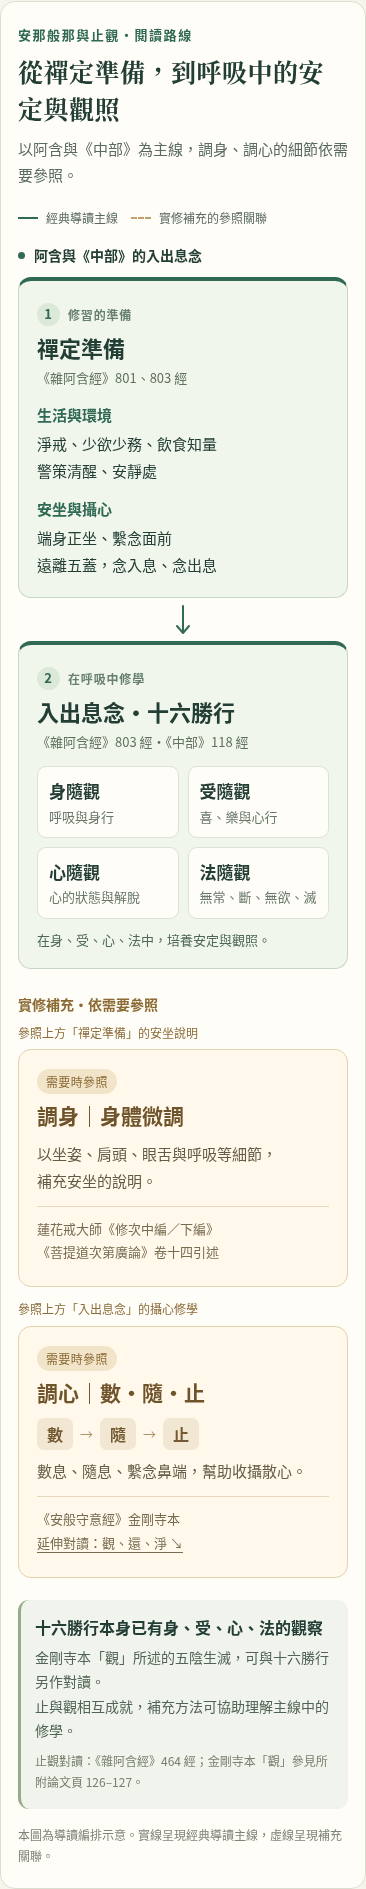
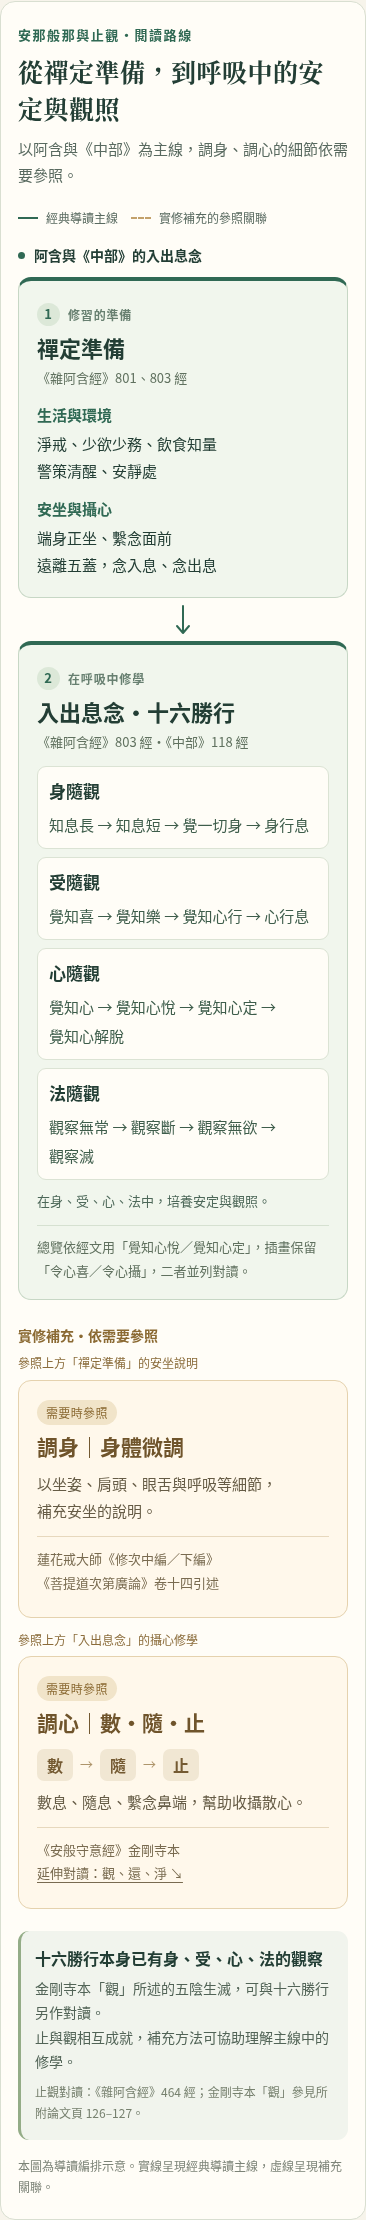
docs: integrate all sixteen practices into Anapana flow preview

diff --git a/docs/previews/anapana-study-flow/preview.html b/docs/previews/anapana-study-flow/preview.html
@@ -7,9 +7,9 @@
 <title>安那般那導讀流程｜SutraZen 試排</title>
 <style>
 :root{--paper:#f7f4eb;--ink:#233e35;--muted:#596a60;--green:#306954;--border:#d9dfd1;--gold:#a27835;--gold-line:#c3a16b;--white:#fffdf7}
-*{box-sizing:border-box}body{margin:0;background:var(--paper);color:var(--ink);font-family:"Noto Sans TC","PingFang TC","Microsoft JhengHei",sans-serif;line-height:1.75}a{color:inherit;text-underline-offset:4px}a:focus-visible{outline:3px solid #a27835;outline-offset:5px}header{max-width:1160px;margin:auto;padding:23px 30px 17px;display:flex;justify-content:space-between;gap:12px;align-items:center;border-bottom:1px solid #dce1d4}.brand{font-family:Georgia,"Songti TC",serif;font-size:25px;font-weight:700}.preview-badge{font-size:13px;color:#816636;background:#f3ead6;padding:4px 12px;border-radius:20px}main{width:min(100% - 48px,1100px);margin:22px auto 55px}#flow-preview{padding:30px 32px 24px;background:var(--white);border:1px solid var(--border);border-radius:20px}.eyebrow{margin:0 0 7px;color:var(--green);font-size:13px;letter-spacing:.12em;font-weight:750}h1{margin:0;font-family:"Noto Serif TC","Songti TC",serif;font-size:clamp(25px,3vw,35px);line-height:1.45;letter-spacing:.02em}.lead{color:var(--muted);margin:10px 0 19px;font-size:16px}.legend{display:flex;flex-wrap:wrap;gap:8px 23px;font-size:13px;color:var(--muted);padding-bottom:20px}.legend span{display:inline-flex;align-items:center;gap:8px}.sample{display:inline-block;width:28px;height:0;border-top:2px solid var(--green)}.sample.dotted{border-color:var(--gold-line);border-top-style:dashed}.lane-caption{margin:0 0 9px;display:flex;align-items:center;gap:9px;font-size:14px;font-weight:700}.lane-caption:before{content:"";width:7px;height:7px;background:var(--green);border-radius:100%}.flows{display:grid;grid-template-columns:1fr 46px 1.14fr;grid-template-rows:350px 51px auto;align-items:start}.prep-card{grid-area:1/1}.main-link{grid-area:1/2}.tetrad-card{grid-area:1/3}.body-link{grid-area:2/1}.mind-link{grid-area:2/3}.body-card{grid-area:3/1}.mind-card{grid-area:3/3}.main-card{height:100%;border:1px solid #c7d7c5;border-top:4px solid var(--green);background:#f1f6ed;border-radius:13px;padding:19px 21px;position:relative}.main-card h2{margin:0 0 2px;font-size:22px;line-height:1.6}.step{display:inline-flex;align-items:center;gap:8px;font-size:12px;letter-spacing:.07em;color:#688071;font-weight:700;margin-bottom:4px}.step b{display:grid;place-items:center;width:23px;height:23px;border-radius:50%;background:#dce8d8;color:var(--green);font-size:13px}.source{font-size:13px;color:#60715f;margin:0 0 13px}.prep-block{margin-top:12px}.prep-block strong{display:block;font-size:15px;color:var(--green)}.prep-block p{margin:2px 0;font-size:15px;line-height:1.8}.main-link{height:350px;display:flex;align-items:center;justify-content:center;color:var(--green)}.main-link svg{width:34px;height:22px;overflow:visible}.tetrads{display:grid;grid-template-columns:1fr 1fr;gap:9px;margin-top:12px}.tetrad{background:#fffdf7;border:1px solid #dbe3d4;border-radius:9px;padding:8px 11px}.tetrad strong{display:block;font-size:17px}.tetrad small{display:block;font-size:13px;color:#67776b;line-height:1.7}.within{font-size:13px;margin:10px 0 0;color:#4d6859}.support-link{display:flex;align-items:center;justify-content:center;gap:10px;color:#8b6c3b;font-size:13px}.support-link svg{width:20px;height:49px;flex:0 0 20px}.support-link .mobile-label{display:none}.support-card{background:#fff8eb;border:1px solid #e5d2ae;border-radius:13px;padding:17px 20px;min-height:270px}.support-card h3{margin:5px 0;font-size:21px;line-height:1.6;color:#6f542b}.optional{display:inline-block;font-size:12px;letter-spacing:.03em;color:#8b6a33;background:#f1e4c9;border-radius:20px;padding:2px 9px}.support-card p{margin:7px 0;font-size:15px;line-height:1.8;color:#665c46}.support-source{margin-top:12px!important;border-top:1px solid #e7d8bd;padding-top:10px;font-size:13px!important;color:#796b50!important;line-height:1.8!important}.steps{display:flex;gap:7px;align-items:center;margin:9px 0 6px}.steps b{border-radius:7px;background:#f1e7d3;color:#745a32;font-size:16px;min-width:44px;text-align:center;padding:2px 12px}.steps span{color:#ae956b;font-size:13px}.extension{font-size:13px!important;margin-top:7px!important}.mobile-support-heading{display:none}.observation{margin-top:22px;background:#f1f4ed;border-radius:11px;padding:14px 18px;border-left:3px solid #94ac87}.observation strong{display:block;font-size:16px}.observation p{font-size:14px;margin:4px 0;color:#526457}.observation .citation{font-size:12px;margin-top:7px;color:#77816f}.footnote{font-size:12px;color:#7c8377;margin:15px 0 0}.existing-table{margin-top:30px;padding:23px 28px;border:1px solid #d9dfd1;background:var(--white);border-radius:15px}.existing-table h2{margin:0 0 14px;font-size:24px}.existing-table .muted{font-size:14px;color:var(--muted)}table{border-collapse:collapse;width:100%;font-size:15px}td,th{padding:12px 14px;text-align:left;border:1px solid #d9dfd1}thead{background:#eef2e8}tbody th{white-space:nowrap;font-weight:700}.table-wrap{overflow:auto}.review-note{margin:18px 0 0;font-size:13px;color:#6f786b}.review-note a{display:inline-block;margin-right:16px}
-@media(max-width:800px){main{width:min(100% - 28px,710px)}#flow-preview{padding:25px 23px}.flows{grid-template-columns:1fr 35px 1fr;grid-template-rows:365px 51px auto}.main-card{padding:16px}.main-card h2{font-size:20px}.source{font-size:12px}.main-link{height:365px}.support-card{padding:15px;min-height:285px}.support-card h3{font-size:19px}.tetrad{padding:8px}.tetrad small{font-size:12px}.prep-block p{font-size:14px}.steps b{min-width:36px;padding-inline:9px}}
-@media(max-width:600px){header{padding:15px 18px}.brand{font-size:22px}.preview-badge{font-size:11px;padding:3px 9px}main{width:calc(100% - 24px);margin-top:16px}#flow-preview{padding:22px 17px;border-radius:15px}.lead{font-size:15px}.legend{font-size:12px;gap:7px 13px;padding-bottom:15px}.sample{width:20px}.flows{grid-template-columns:1fr;grid-template-rows:auto}.flows>*{grid-area:auto}.main-card{padding:17px 18px}.main-card h2{font-size:22px}.prep-card{grid-row:1}.main-link{grid-row:2;height:43px}.main-link svg{transform:rotate(90deg)}.tetrad-card{grid-row:3}.prep-block p{font-size:15px}.source{font-size:13px;margin-bottom:11px}.tetrad{padding:9px 11px}.tetrad small{font-size:13px}.mobile-support-heading{display:block;grid-row:4;margin:23px 0 6px;color:#8b6a33;font-size:14px;font-weight:700}.body-link{grid-row:5}.body-card{grid-row:6}.mind-link{grid-row:7;margin-top:12px}.mind-card{grid-row:8}.support-link{justify-content:flex-start;font-size:12px;line-height:1.6;padding:0 0 7px;height:auto}.support-link svg,.support-link .desktop-label{display:none}.support-link .mobile-label{display:block}.support-card{min-height:0;padding:16px 18px}.support-card h3{font-size:21px}.support-source{font-size:13px!important}.observation{padding:13px 14px;margin-top:22px}.observation p{font-size:14px}.observation .citation{font-size:12px}.footnote{font-size:12px}.existing-table{padding:20px 16px}.existing-table h2{font-size:23px}table{font-size:14px}td,th{padding:10px}tbody th{white-space:normal;min-width:50px}.review-note{font-size:12px}}
+*{box-sizing:border-box}body{margin:0;background:var(--paper);color:var(--ink);font-family:"Noto Sans TC","PingFang TC","Microsoft JhengHei",sans-serif;line-height:1.75}a{color:inherit;text-underline-offset:4px}a:focus-visible{outline:3px solid #a27835;outline-offset:5px}header{max-width:1160px;margin:auto;padding:23px 30px 17px;display:flex;justify-content:space-between;gap:12px;align-items:center;border-bottom:1px solid #dce1d4}.brand{font-family:Georgia,"Songti TC",serif;font-size:25px;font-weight:700}.preview-badge{font-size:13px;color:#816636;background:#f3ead6;padding:4px 12px;border-radius:20px}main{width:min(100% - 48px,1100px);margin:22px auto 55px}#flow-preview{padding:30px 32px 24px;background:var(--white);border:1px solid var(--border);border-radius:20px}.eyebrow{margin:0 0 7px;color:var(--green);font-size:13px;letter-spacing:.12em;font-weight:750}h1{margin:0;font-family:"Noto Serif TC","Songti TC",serif;font-size:clamp(25px,3vw,35px);line-height:1.45;letter-spacing:.02em}.lead{color:var(--muted);margin:10px 0 19px;font-size:16px}.legend{display:flex;flex-wrap:wrap;gap:8px 23px;font-size:13px;color:var(--muted);padding-bottom:20px}.legend span{display:inline-flex;align-items:center;gap:8px}.sample{display:inline-block;width:28px;height:0;border-top:2px solid var(--green)}.sample.dotted{border-color:var(--gold-line);border-top-style:dashed}.lane-caption{margin:0 0 9px;display:flex;align-items:center;gap:9px;font-size:14px;font-weight:700}.lane-caption:before{content:"";width:7px;height:7px;background:var(--green);border-radius:100%}.flows{display:grid;grid-template-columns:1fr 46px 1.14fr;grid-template-rows:auto 51px auto;align-items:start}.prep-card{grid-area:1/1}.main-link{grid-area:1/2}.tetrad-card{grid-area:1/3}.body-link{grid-area:2/1}.mind-link{grid-area:2/3}.body-card{grid-area:3/1}.mind-card{grid-area:3/3}.main-card{min-height:350px;height:100%;border:1px solid #c7d7c5;border-top:4px solid var(--green);background:#f1f6ed;border-radius:13px;padding:19px 21px;position:relative}.main-card h2{margin:0 0 2px;font-size:22px;line-height:1.6}.step{display:inline-flex;align-items:center;gap:8px;font-size:12px;letter-spacing:.07em;color:#688071;font-weight:700;margin-bottom:4px}.step b{display:grid;place-items:center;width:23px;height:23px;border-radius:50%;background:#dce8d8;color:var(--green);font-size:13px}.source{font-size:13px;color:#60715f;margin:0 0 13px}.prep-block{margin-top:12px}.prep-block strong{display:block;font-size:15px;color:var(--green)}.prep-block p{margin:2px 0;font-size:15px;line-height:1.8}.main-link{height:100%;display:flex;align-items:center;justify-content:center;color:var(--green)}.main-link svg{width:34px;height:22px;overflow:visible}.tetrads{display:grid;grid-template-columns:1fr;gap:8px;margin-top:12px}.tetrad{display:grid;grid-template-columns:62px 1fr;gap:10px;align-items:start;background:#fffdf7;border:1px solid #dbe3d4;border-radius:9px;padding:8px 11px}.tetrad h3{margin:0;font-size:17px;line-height:1.75}.practice-chain{margin:0;font-size:15px;line-height:1.95;color:#3e5d4b}.practice-term{white-space:nowrap}.translation-note{font-size:13px;line-height:1.8;color:#60715f;margin:12px 0 0;padding-top:9px;border-top:1px solid #d6e1d1}.within{font-size:13px;margin:10px 0 0;color:#4d6859}.support-link{display:flex;align-items:center;justify-content:center;gap:10px;color:#8b6c3b;font-size:13px}.support-link svg{width:20px;height:49px;flex:0 0 20px}.support-link .mobile-label{display:none}.support-card{background:#fff8eb;border:1px solid #e5d2ae;border-radius:13px;padding:17px 20px;min-height:270px}.support-card h3{margin:5px 0;font-size:21px;line-height:1.6;color:#6f542b}.optional{display:inline-block;font-size:12px;letter-spacing:.03em;color:#8b6a33;background:#f1e4c9;border-radius:20px;padding:2px 9px}.support-card p{margin:7px 0;font-size:15px;line-height:1.8;color:#665c46}.support-source{margin-top:12px!important;border-top:1px solid #e7d8bd;padding-top:10px;font-size:13px!important;color:#796b50!important;line-height:1.8!important}.steps{display:flex;gap:7px;align-items:center;margin:9px 0 6px}.steps b{border-radius:7px;background:#f1e7d3;color:#745a32;font-size:16px;min-width:44px;text-align:center;padding:2px 12px}.steps span{color:#ae956b;font-size:13px}.extension{font-size:13px!important;margin-top:7px!important}.mobile-support-heading{display:none}.observation{margin-top:22px;background:#f1f4ed;border-radius:11px;padding:14px 18px;border-left:3px solid #94ac87}.observation strong{display:block;font-size:16px}.observation p{font-size:14px;margin:4px 0;color:#526457}.observation .citation{font-size:12px;margin-top:7px;color:#77816f}.footnote{font-size:12px;color:#7c8377;margin:15px 0 0}.existing-table{margin-top:30px;padding:23px 28px;border:1px solid #d9dfd1;background:var(--white);border-radius:15px}.existing-table h2{margin:0 0 14px;font-size:24px}.existing-table .muted{font-size:14px;color:var(--muted)}table{border-collapse:collapse;width:100%;font-size:15px}td,th{padding:12px 14px;text-align:left;border:1px solid #d9dfd1}thead{background:#eef2e8}tbody th{white-space:nowrap;font-weight:700}.table-wrap{overflow:auto}.review-note{margin:18px 0 0;font-size:13px;color:#6f786b}.review-note a{display:inline-block;margin-right:16px}
+@media(max-width:800px){main{width:min(100% - 28px,710px)}#flow-preview{padding:25px 23px}.flows{grid-template-columns:1fr 35px 1fr;grid-template-rows:auto 51px auto}.main-card{padding:16px}.main-card h2{font-size:20px}.source{font-size:12px}.main-link{height:100%}.support-card{padding:15px;min-height:285px}.support-card h3{font-size:19px}.tetrad{padding:8px}.tetrad{grid-template-columns:55px 1fr;gap:8px}.practice-chain{font-size:14px}.prep-block p{font-size:14px}.steps b{min-width:36px;padding-inline:9px}}
+@media(max-width:600px){header{padding:15px 18px}.brand{font-size:22px}.preview-badge{font-size:11px;padding:3px 9px}main{width:calc(100% - 24px);margin-top:16px}#flow-preview{padding:22px 17px;border-radius:15px}.lead{font-size:15px}.legend{font-size:12px;gap:7px 13px;padding-bottom:15px}.sample{width:20px}.flows{grid-template-columns:1fr;grid-template-rows:auto}.flows>*{grid-area:auto}.main-card{min-height:0;padding:17px 18px}.main-card h2{font-size:22px}.prep-card{grid-row:1}.main-link{grid-row:2;height:43px}.main-link svg{transform:rotate(90deg)}.tetrad-card{grid-row:3}.prep-block p{font-size:15px}.source{font-size:13px;margin-bottom:11px}.tetrad{padding:9px 11px}.tetrad{grid-template-columns:1fr;gap:4px}.practice-chain{font-size:15px}.mobile-support-heading{display:block;grid-row:4;margin:23px 0 6px;color:#8b6a33;font-size:14px;font-weight:700}.body-link{grid-row:5}.body-card{grid-row:6}.mind-link{grid-row:7;margin-top:12px}.mind-card{grid-row:8}.support-link{justify-content:flex-start;font-size:12px;line-height:1.6;padding:0 0 7px;height:auto}.support-link svg,.support-link .desktop-label{display:none}.support-link .mobile-label{display:block}.support-card{min-height:0;padding:16px 18px}.support-card h3{font-size:21px}.support-source{font-size:13px!important}.observation{padding:13px 14px;margin-top:22px}.observation p{font-size:14px}.observation .citation{font-size:12px}.footnote{font-size:12px}.existing-table{padding:20px 16px}.existing-table h2{font-size:23px}table{font-size:14px}td,th{padding:10px}tbody th{white-space:normal;min-width:50px}.review-note{font-size:12px}}
 </style>
 </head>
 <body>
@@ -31,8 +31,9 @@
 <article class="main-card tetrad-card" id="sixteen">
 <div class="step"><b>2</b>在呼吸中修學</div><h2>入出息念・十六勝行</h2>
 <p class="source">《雜阿含經》803 經・《中部》118 經</p>
-<div class="tetrads"><div class="tetrad"><strong>身隨觀</strong><small>呼吸與身行</small></div><div class="tetrad"><strong>受隨觀</strong><small>喜、樂與心行</small></div><div class="tetrad"><strong>心隨觀</strong><small>心的狀態與解脫</small></div><div class="tetrad"><strong>法隨觀</strong><small>無常、斷、無欲、滅</small></div></div>
+<div class="tetrads"><section class="tetrad" aria-labelledby="tetrad-0"><h3 id="tetrad-0">身隨觀</h3><p class="practice-chain"><span class="practice-term">知息長</span> → <span class="practice-term">知息短</span> → <span class="practice-term">覺一切身</span> → <span class="practice-term">身行息</span></p></section><section class="tetrad" aria-labelledby="tetrad-1"><h3 id="tetrad-1">受隨觀</h3><p class="practice-chain"><span class="practice-term">覺知喜</span> → <span class="practice-term">覺知樂</span> → <span class="practice-term">覺知心行</span> → <span class="practice-term">心行息</span></p></section><section class="tetrad" aria-labelledby="tetrad-2"><h3 id="tetrad-2">心隨觀</h3><p class="practice-chain"><span class="practice-term">覺知心</span> → <span class="practice-term">覺知心悅</span> → <span class="practice-term">覺知心定</span> → <span class="practice-term">覺知心解脫</span></p></section><section class="tetrad" aria-labelledby="tetrad-3"><h3 id="tetrad-3">法隨觀</h3><p class="practice-chain"><span class="practice-term">觀察無常</span> → <span class="practice-term">觀察斷</span> → <span class="practice-term">觀察無欲</span> → <span class="practice-term">觀察滅</span></p></section></div>
 <p class="within">在身、受、心、法中，培養安定與觀照。</p>
+<p class="translation-note">總覽依經文用「覺知心悅／覺知心定」，插畫保留「令心喜／令心攝」，二者並列對讀。</p>
 </article>
 <p class="mobile-support-heading">實修補充・依需要參照</p>
 <div class="support-link body-link"><svg viewbox="0 0 20 49" aria-hidden="true"><path d="M10 48V6M5 11L10 5L15 11" fill="none" stroke="#b89560" stroke-width="1.6" stroke-dasharray="4 4"></path><path d="M5 10L10 4L15 10" fill="none" stroke="#b89560" stroke-width="1.6"></path></svg><span class="desktop-label">補充安坐細節</span><span class="mobile-label">參照上方「禪定準備」的安坐說明</span></div>
@@ -43,8 +44,6 @@
 <aside class="observation" id="observation-note"><strong>十六勝行本身已有身、受、心、法的觀察</strong><p>金剛寺本「觀」所述的五陰生滅，可與十六勝行另作對讀。<br>止與觀相互成就，補充方法可協助理解主線中的修學。</p><p class="citation">止觀對讀：《雜阿含經》464 經；金剛寺本「觀」參見所附論文頁 126–127。</p></aside>
 <p class="footnote">本圖為導讀編排示意。實線呈現經典導讀主線，虛線呈現補充關聯。</p>
 </section>
-<section class="existing-table"><h2>十六勝行｜身、受、心、法</h2><div class="table-wrap"><table><thead><tr><th scope="col">組別</th><th scope="col">總覽對讀</th></tr></thead><tbody><tr><th scope="row">身隨觀</th><td>知息長 → 知息短 → 覺一切身 → 身行息</td></tr><tr><th scope="row">受隨觀</th><td>覺知喜 → 覺知樂 → 覺知心行 → 心行息</td></tr><tr><th scope="row">心隨觀</th><td>覺知心 → 覺知心悅 → 覺知心定 → 覺知心解脫</td></tr><tr><th scope="row">法隨觀</th><td>觀察無常 → 觀察斷 → 觀察無欲 → 觀察滅</td></tr></tbody></table></div><p>總覽依經文用「覺知心悅／覺知心定」，插畫保留「令心喜／令心攝」，二者並列對讀。</p></section>
-
 <p class="review-note"><a href="https://sutra-zen.github.io/anapana/#sources" target="_blank" rel="noopener noreferrer">經典出處與原文對讀 ↗</a><a href="https://sutra-zen.github.io/docs/anapana/references/212202.pdf#page=134" target="_blank" rel="noopener noreferrer">金剛寺本「觀」的論文對讀 ↗</a></p>
 </main>
 </body></html>

diff --git a/docs/previews/anapana-study-flow/README.md b/docs/previews/anapana-study-flow/README.md
@@ -1,6 +1,6 @@
-# 安那般那導讀路線初稿（2026-11-21，未發布）
+# 安那般那導讀路線二稿：整合十六項（2026-11-21，未發布）
 
-作者希望釐清禪定準備、十六勝行、修次調身及安般數隨止的關係，明確要求先畫初稿、不要發布。從最新main0e3d7cdd（SEO r2已發布）建立preview/anapana-study-flow；本資料夾只有獨立預覽HTML及截圖，沒有改anapana/index.html、任何閱讀器、來源資料或建置器。不可沿用先前SEO或繪本維護的發布授權合併本稿。
+作者希望釐清禪定準備、十六勝行、修次調身及安般數隨止的關係，明確要求先畫初稿、不要發布；第二輪建議將原十六勝行表整合到流程右上方，以減少重複。從最新main0e3d7cdd（SEO r2已發布）建立preview/anapana-study-flow；本資料夾只有獨立預覽HTML及截圖，沒有改anapana/index.html、任何閱讀器、來源資料或建置器。不可沿用先前SEO或繪本維護的發布授權合併本稿。
 
 ## 建議的組織
 
@@ -8,7 +8,7 @@
 - 暖色下層：調身、調心兩張平行的「需要時參照」補充卡。調身虛線連安坐；數隨止虛線連入出息中的攝心。兩卡之間沒有相接的必經箭頭，也沒有把它們插成準備與十六勝行之間的關卡。
 - 「觀」在十六勝行已有身、受、心、法的觀察；金剛寺本的「觀」另有五陰／生滅的內容，可以對讀，保留各自文獻架構。沒有把安般六事與十六勝行等同或逐項硬配，也沒有替阿含額外增加「完成數隨止，再完成一個觀，才能修十六勝行」的前提。
 - 《修次中編／下編》屬蓮花戒的論師材料；《安般守意經》金剛寺本則依本頁既有古譯文獻名稱標示。因此共同層級稱「實修補充」，沒有把金剛寺本的所有內容簡化為某位論師的自創法。
-- 原十六勝行表格及其譯語對照備註保留在圖下，逐一比對全部文字相同。流程四個小格只提供簡短定位，完整16項仍看原表。
+- 原表四組與完整16項直接整合至右上十六勝行卡片，以四列分組顯示，取代上一稿的小格摘要。心悅／心定與插畫心喜／心攝的原備註移入同一張卡片。移除草稿下方的獨立表格，各項只出現一次；16項、4組名稱、順序與備註逐一比對原表文字相同。
 
 ## 依據與核對界線
 
@@ -27,8 +27,8 @@
 
 本機根目錄HTTP下開啟docs/previews/anapana-study-flow/preview.html。無外部CSS、圖片或JavaScript依賴；來源按鈕可另開現有原經區／PDF，圖中的「延伸對讀」為本地錨點。
 
-1200×1200、768×1024、390×844以Chromium實測：卡片文字完整、無水平溢出，桌機上層與下層左右齊頭；手機按經典主線→實修補充顯示，DOM閱讀順序與視覺順序一致。延伸錨點通過，無JS／本機HTTP錯誤。validation.json及flow-*.png為結果，page-*.webp含原表格。暫用檢查腳本/tmp/check-anapana-flow-preview.py，未新增永久測試；實體Safari未測。
+1200×1200、768×1024、390×844以Chromium重新實測：卡片文字完整、無水平溢出，桌機上層與下層左右齊頭；手機按經典主線→實修補充顯示，DOM閱讀順序與視覺順序一致。延伸錨點通過，無JS／本機HTTP錯誤。validation.json及flow-*.png為結果，page-*.webp是整合後完整頁面。另核對原表4組／16個詞項順序與原備註完全相同，草稿內已無獨立table。暫用檢查腳本/tmp/check-anapana-flow-preview.py，未新增永久測試；實體Safari未測。
 
-若作者確認後要整合正式專頁，應只加入有命名空間的流程section，沿用原guide header、H1、SEO、來源卡與表格；不要用此獨立試排HTML覆蓋整個專頁。
+若作者確認後要整合正式專頁，應只加入有命名空間的流程section，沿用原guide header、H1、SEO及來源卡，將原表資料整合入新流程並移除下方重複表格；不要用此獨立試排HTML覆蓋整個專頁。
 
 本輪只在草稿分支保存初稿；main／Pages仍應停在0e3d7cdd。全站SEO的build-seo.py --check通過，Google驗證原檔保留。沒有正式發布，無發布ZIP或Notion更新事項。

diff --git a/docs/HANDOFF.md b/docs/HANDOFF.md
@@ -1,10 +1,10 @@
-# 安那般那導讀路線初稿，僅預覽（2026-11-21）
+# 安那般那導讀路線二稿：完整十六項整合右上，僅預覽（2026-11-21）
 
-作者要求先畫符合來源層次的流程初稿、不要發布。main基準0e3d7cdd，工作樹起初乾淨；試作分支preview/anapana-study-flow。只新增docs/previews/anapana-study-flow/的獨立HTML與截圖，anapana正式導讀、繪本、經文／圖片／建置／SEO及Google驗證檔都不改。不得沿用前一輪SEO發布授權合併此稿。
+作者要求先畫符合來源層次的流程初稿、不要發布；本輪進一步建議把原十六勝行表格整合到流程右上。main基準0e3d7cdd，試作分支preview/anapana-study-flow、草稿PR56；只有docs/previews/anapana-study-flow/與本交接紀錄更新。anapana正式導讀、繪本、經文／圖片／建置／SEO及Google驗證檔都不改，不得沿用前一輪SEO發布授權合併此稿。
 
-方案是綠色經典主線「禪定準備→入出息念・十六勝行」，暖色下層平行放調身／數隨止，虛線分別表示安坐與攝心的補充關聯。十六勝行本含四組觀察；金剛寺本「觀」的五陰生滅可另作對讀，不把數隨止→觀硬接為十六勝行的必經前提。實修補充欄分別標蓮花戒修次（廣論卷十四引述）與安般守意經金剛寺本，避免泛稱全是論師自創；不採「佛陀沒有教實作」的斷語。原十六勝行表格文字及備註完整保留在圖下。
+綠色經典主線及暖色調身／數隨止平行補充維持。二稿將原表四組、完整16項與心悅／心定對照心喜／心攝的原備註，整合進右上十六勝行卡片，分四列顯示；移除草稿下方的獨立表格。逐一比對4組名稱、16項順序與備註文字均相同，沒有新增改寫經義。手機保持主線完整顯示後再列補充；圖示仍表示導讀／參照關聯，不另訂數隨止→觀→十六勝行的必經程序。
 
-已核對現有canonical與PDF及全部來源雜湊；尤其論文印刷頁126–127／PDF134–135的金剛寺本「觀」相關段落。細節與限界見預覽README。1200×1200／768×1024／390×844截圖檢查卡片無截字／溢出、對齊、手機及DOM閱讀順序與延伸錨點，均通過，無JS／本機HTTP錯誤；實體Safari未測。build-seo.py --check通過。作者確認前不改正式站、不合併main、不發布Pages。
+來源核對與第一稿相同，詳預覽README（含已核讀PDF134–135）。1200×1200／768×1024／390×844重新檢查完整詞項、備註、卡片無截字／溢出、對齊、閱讀順序與延伸錨點，均通過，無JS／本機HTTP錯誤；實體Safari未測。build-seo.py --check通過。作者確認前不改正式站、不合併main、不發布Pages。
 
 ---
 
